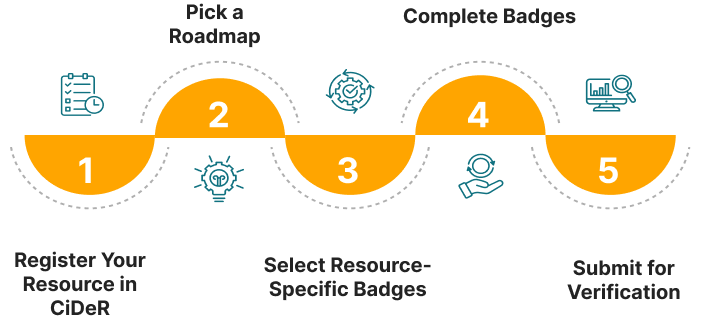
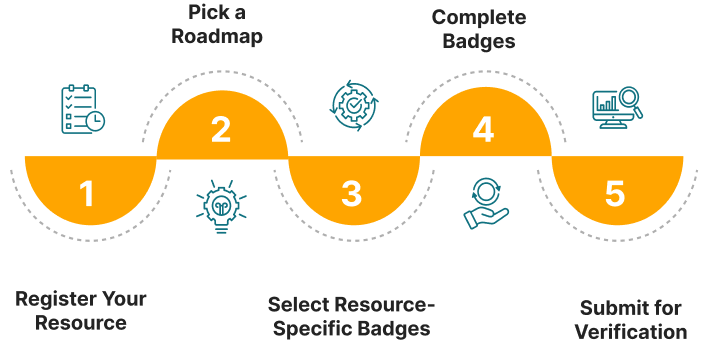
Update the text contents

diff --git a/IntegrationBadgesUI/integration-badges-ui-react/src/pages/docs/HowToIntegrateResource.jsx b/IntegrationBadgesUI/integration-badges-ui-react/src/pages/docs/HowToIntegrateResource.jsx
@@ -29,40 +29,70 @@ export default function HowToIntegrateResource() {
         </div>
 
         <div className="row mt-5 p-5 bg-light">
+            <h4 className="fs-6">To begin the integration process, you have two options:</h4>
             <p className="fs-6">
-                To begin, click <strong>"Start Integration"</strong> on the landing page. This will take you to our Resource Description
-                catalog (called <strong>CiDeR</strong>), where you’ll register your organization (if it’s not already registered) and
-                then register your resource. This step is quick and simple!
-            </p>
-            <p className="fs-6">
-                Once your registration is complete, <strong>head back to the ACCESS site</strong>. On the homepage, you will find a link
-                to the <strong>Integration Dashboard</strong>. From there, it’s all a step-by-step process. Simply follow the
-                instructions to choose an Integration Roadmap based on the type of resource you’re bringing in, whether
-                it's a compute cluster, cloud environment, storage, or science gateway. These roadmaps are designed to
-                guide you through the integration process and break it down into manageable milestones called badges.
-            </p>
-            <p className="fs-6">
-                Each <strong>Integration Roadmap</strong> will include a list of required and optional badges (integration features or
-                elements), and each badge will have tasks that need to be completed to integrate your resource. You, as
-                the Resource Provider, can select the badges that align with your resource type and goals. Some badges
-                will involve technical tasks for your system administrators, while others may be administrative or
-                operational and handled by other team members.
+                You can click “Start Integration” directly from the ACCESS landing page, or navigate to your Institution
+                Integration Dashboard to get started.
             </p>
         </div>
 
 
         <div className="row mt-5 p-5 bg-light">
+            <h4 className="fs-6">Step 1: Register Your Institution and Resource</h4>
             <p className="fs-6">
-                Once the tasks for each badge are complete, you’ll submit the badge for verification, where our team
-                will ensure everything is set up correctly.
+                If your institution isn’t already in the system, you’ll need to register it first. Then, register the
+                specific resource you’d like to integrate. This involves filling out a short form with a few key
+                details. Once submitted, a member of the concierge team will review your information. If everything
+                looks good, your resource will appear on the Integration Dashboard. it's a quick and easy step!
+            </p>
+        </div>
+
+
+        <div className="row mt-5 p-5 bg-light">
+            <h4 className="fs-6">Step 2: Pick an Integration Roadmap</h4>
+            <p className="fs-6">
+                After registration, return to the ACCESS homepage and click on the Integration Dashboard link. From
+                there, you’ll follow a guided process to select an Integration Roadmap that matches the type of resource
+                you’re integrating, such as a compute cluster, cloud environment, storage, or a science gateway.
             </p>
             <p className="fs-6">
-                And don’t worry, our concierge team is here to help you every step of the way. We’re available to guide
-                you through the process, clarify any questions, and make sure the integration goes smoothly.
+                These roadmaps are designed to break the integration process into manageable steps called badges. Each
+                badge includes tasks that must be completed to successfully integrate your resource.
             </p>
+        </div>
+
+
+        <div className="row mt-5 p-5 bg-light">
+            <h4 className="fs-6">Step 3: Select Resource Specific Badges</h4>
             <p className="fs-6">
-                Ready to get started? Click <strong>“Start Integration”</strong> to begin.<br/>
-                Need help or have questions? Reach out to a concierge, we’re happy to assist!
+                As the Resource Provider, you can choose the badges most relevant to your resource and your team’s
+                goals. Some badges may involve technical setup tasks for your developers, while others may focus on
+                administrative or operational steps handled by different members of your team.
+            </p>
+        </div>
+
+
+        <div className="row mt-5 p-5 bg-light">
+            <h4 className="fs-6">Step 4: Complete Badges</h4>
+            <p className="fs-6">
+                Each badge in your selected Integration Roadmap represents a specific milestone in the integration
+                process. Badges are designed to help you and your team stay organized by breaking the work into focused,
+                achievable tasks. Some badges will involve setting up technical components like configuring access
+                policies or setting up monitoring while others may cover documentation, support planning, or onboarding
+                workflows. Each badge includes guidance, resources, and links to help you complete the required tasks.
+                As you complete a badge, simply mark it as done on the Integration Dashboard. This allows both your team
+                and the ACCESS support team to track progress.
+            </p>
+        </div>
+
+
+        <div className="row mt-5 p-5 bg-light">
+            <h4 className="fs-6">Step 5: Submit for Verification</h4>
+            <p className="fs-6">
+                Once your badges are finished, you’ll submit them for verification, where our team will ensure
+                everything is set up correctly. And don’t worry, our team is here to help you every step of the way.
+                We’re available to guide you through the process, clarify any questions, and make sure the integration
+                goes smoothly.
             </p>
         </div>
 

diff --git a/IntegrationBadgesUI/integration-badges-ui-react/src/pages/docs/FiveStepsForNewIntegrations.jsx b/IntegrationBadgesUI/integration-badges-ui-react/src/pages/docs/FiveStepsForNewIntegrations.jsx
@@ -33,7 +33,7 @@ export default function FiveStepsForNewIntegrations() {
             <strong className="text-black d-block">Ready to start the process? </strong>
             <Link className="btn btn-dark rounded-2 mt-2"
                   to="https://access-ci.atlassian.net/servicedesk/customer/portal/2/create/112">
-                Register Your Resource in CiDeR</Link>
+                Register Your Resource</Link>
         </div>
         <div className="w-100 p-3 pt-5">
             <div className="w-100">
@@ -41,10 +41,9 @@ export default function FiveStepsForNewIntegrations() {
                 <i className="d-inline ps-3 pe-3  text-yellow fs-3 bi bi-megaphone-fill"></i>
             </div>
             <p className="ps-5 pt-3 text-medium">
-                CiDeR is an external system where you will register your resource. Once registration is complete, be
-                sure to return to your integration dashboard in ACCESS to continue the process. Once your resource is
-                registered in CiDeR, it will appear in your integration dashboard, where you'll find guidance on the
-                next steps.
+                Once registration is complete, be sure to return to your integration dashboard in ACCESS to continue the
+                process. Once your resource is registered, it will appear in your integration dashboard, where you'll
+                find guidance on the next steps.
             </p>
         </div>
 
